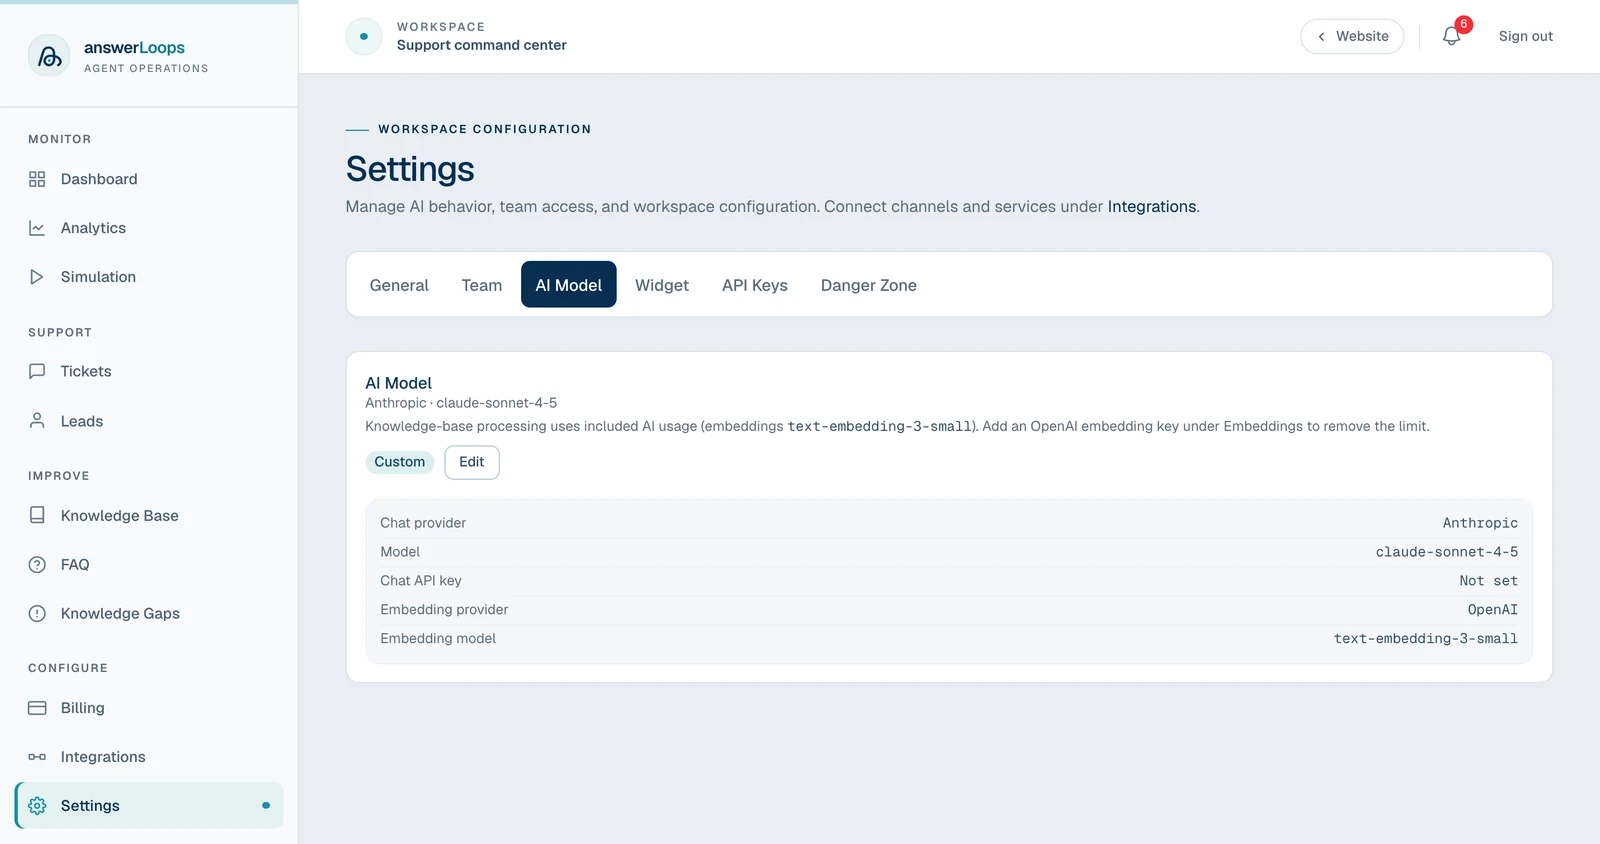
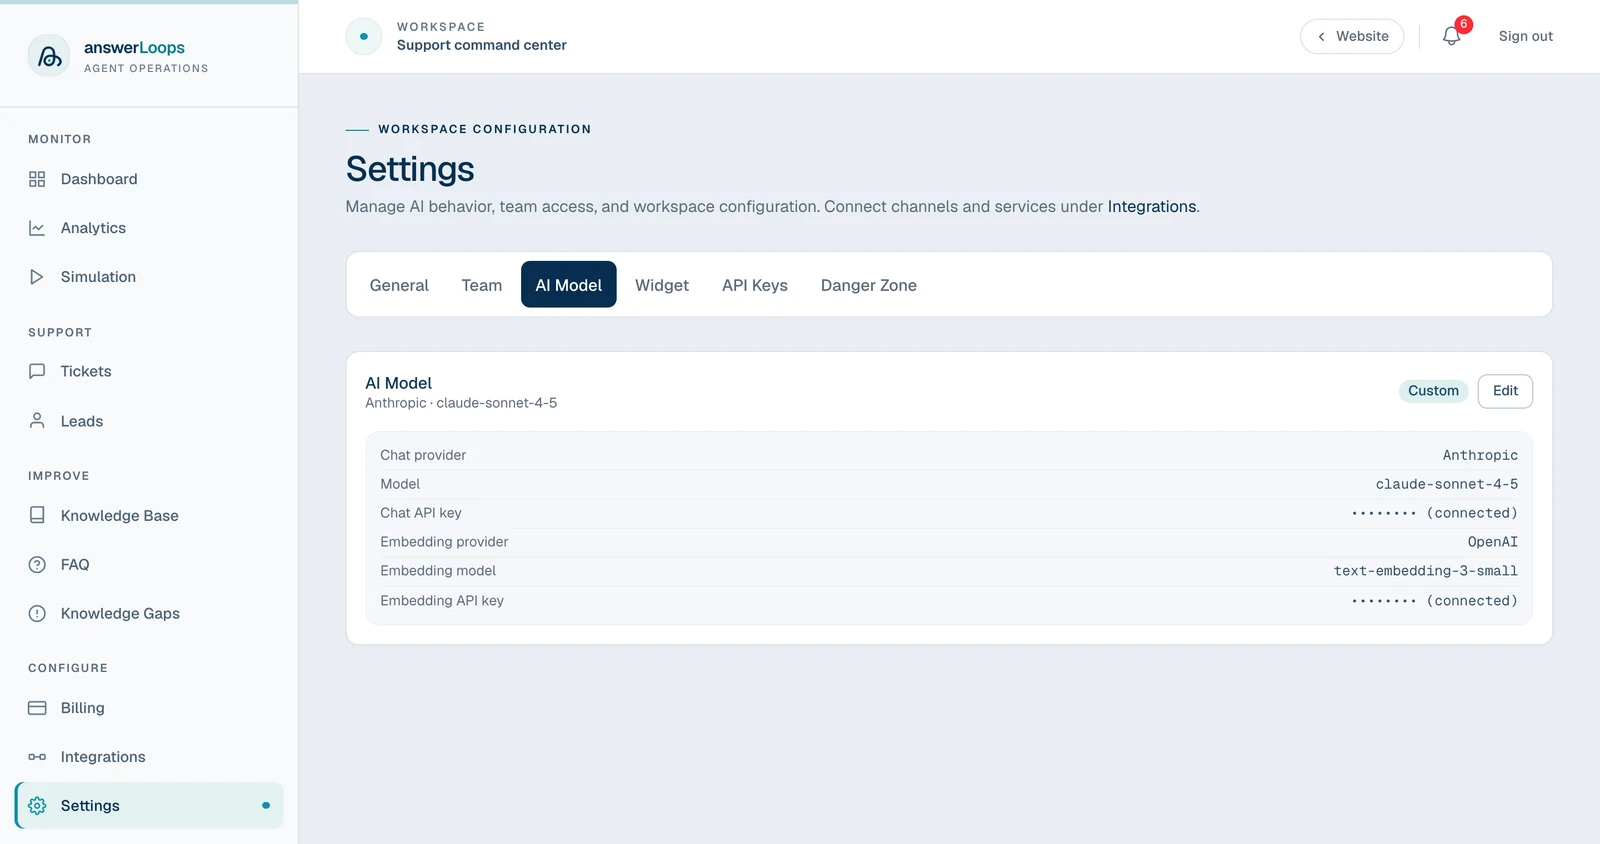
docs: add a screenshot of the AI Model settings and seed connected keys (#472)
The AI Model page in the docs had no screenshot, and the existing capture
looked half-configured: the demo workspace had a provider chosen but no key,
so the settings page showed "Chat API key: Not set" and an included-usage
notice next to a "Custom" badge.

The demo seed now stores a chat key and an embedding key as fixed readable
markers, which the settings page shows as connected with only the last four
characters visible. The screenshot is recaptured, its hotspot positions are
regenerated, and the AI Model page shows it with numbered hotspots for the
Settings tabs, the Edit button, the saved provider and model, and embeddings.

Changed region(s): [[0.2188, 0.4313, 0.9688, 0.7701], [0.8438, 0.5237, 0.9688, 0.7701]]

diff --git a/scripts/docs-demo/seed.ts b/scripts/docs-demo/seed.ts
@@ -15,7 +15,8 @@
  *   - Idempotent: every run wipes that workspace's data and writes it again.
  *   - Contains no secret values. Credentials that the app needs to display a
  *     "connected" integration are generated at runtime with crypto.randomBytes
- *     and are meaningless outside the throwaway database.
+ *     (or, for the AI model keys, are fixed readable markers) and are
+ *     meaningless outside the throwaway database.
  */
 
 import crypto from 'node:crypto'
@@ -829,13 +830,19 @@ async function main() {
   const period = new Date(now).toISOString().slice(0, 7)
   await db.insert(s.platformAiUsage).values({ orgId, period, chatSpendMicros: 4_180_000, embeddingSpendMicros: 210_000 })
 
-  // ---- AI configuration (provider chosen, deliberately no key) -----------
+  // ---- AI configuration (both providers connected) ----------------------
+  // The settings page only needs a stored value to show "connected" and the
+  // last four characters, and it never calls the provider. These are readable
+  // markers, not key-shaped strings, so no scanner or reader mistakes them for
+  // a credential, and the screenshot is the same on every run.
   await db.insert(s.aiConfigs).values({
     orgId,
     chatProvider: 'anthropic',
     chatModel: 'claude-sonnet-4-5',
+    chatApiKey: 'northwind-demo-chat-0001',
     embeddingProvider: 'openai',
     embeddingModel: EMBEDDING_MODEL,
+    embeddingApiKey: 'northwind-demo-embedding-0002',
   })
 
   // ---- Knowledge sources --------------------------------------------------
